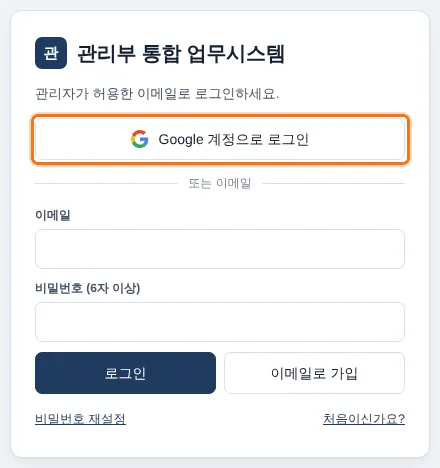
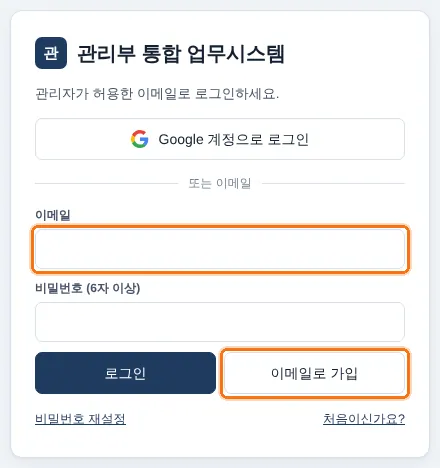
59차: 메모 📢 공지로 · 회사서식 인쇄 원본 쪽 맞춤 · 활용방법 안내 회사 메일 로그인·🆕 표시
- 메모 카드에 「📢 공지로」: 첫 줄 = 제목, 나머지 = 내용으로 업무 공지 쓰기 창(받는 사람·참조 확인 고른 뒤 확인 창),
  보낸 뒤 메모에 「📢 공지 보냄」, 바탕 화면 메모장은 업무시스템 새 창에서 이어 씀
- 회사서식(한글) 인쇄: 문단 줄 정보(LINE_SEG)로 원본 쪽 시작을 찾아 쪽 나눔, 표 칸 첫·끝 줄의 반쪽 줄 간격 제거(한글 줄 간격),
  칸 경계로 열 너비 풀기, 원본 한 줄 칸 제목은 한 줄, 한 문단의 「글자처럼 취급」 표는 나란히, 쪽 끝 빈 문단 제외,
  쪽마다 높이를 재서 넘치면 꼬리말 자리 → 그 쪽만 살짝 줄임(실제 서식 119개 원본 쪽 205개 중 129개 100%, 70개 95% 이상)
- 활용방법 안내: 로그인 = 회사 메일 가입·인증 메일·로그인(관리자만 Google), 🆕 는 처음 기록 빼고 실제 바뀐 항목만,
  메모 📢 공지로·서식 인쇄 쪽 맞춤 설명, 화면 사진 다시 찍음(바뀜 4)
- 오픈소스 확인: hwp.js(Apache-2.0)는 줄 정보를 쓰지 않아 원본 높이가 안 맞음 → 한컴 공개 HWP 5.0 규격의 줄 정보·칸 경계 직접 사용

Claude-Session: https://claude.ai/code/session_01M8rVYEY54qq8ULFBTUjQvE

Changed region(s): [[0.0591, 0.4786, 0.9455, 0.5983], [0.0591, 0.2393, 0.9455, 0.359], [0.4727, 0.7179, 0.9455, 0.8675]]

diff --git a/README.md b/README.md
@@ -12,6 +12,7 @@
 - 📢 업무 공지: 관리부 전체·직원·직무·공장에 「참조」로 알림. 꼭 알아야 할 내용은 「⚠ 참조 확인 요청」 → 받은 사람이 「✓ 참조 확인」을 누를 때마다 보낸 사람에게 확인 알림(몇 명째/전체·모두 확인), 미확인자에게 매일·「🔔 다시 알림」(Mattermost 확인 요청 방식 참고, 직접 구현 — 보안 규칙 변경 없음)
 - 🔒 위쪽 자물쇠(⚙ 왼쪽, 체크 상자): 비공개 업무를 모든 화면에서 한꺼번에 숨기기/보이기, 내 업무·팀 현황 제목 옆 「🔒 비공개 업무」 켜고 끄기(팀 현황은 나에게만), 위쪽 🔍 검색·📝 메모장 자리 바꿈
 - 화면 아래 알림 카드: 윈도우 「애니메이션 효과」를 끈 PC(움직임 줄이기)에서 빈 카드가 생기고 닫은 카드·「알림 n건 더」가 쌓이던 것 고침(Notyf 닫기 예비 타이머), 위쪽 탭·칸반 칸 제목 굵게, 진척 100% 업무는 알림·업무 요청 카드에서도 지연 표시 없음
+- 메모 카드 「📢 공지로」(첫 줄 제목·나머지 내용으로 업무 공지 쓰기, 바탕 화면 메모장은 새 창에서 이어 씀). 회사서식(한글) 인쇄: 원본 쪽 나눔(문단 줄 정보) 그대로 한 쪽 = 종이 한 장, 줄 간격·표 열 너비·한 줄 칸 제목·나란한 표를 원본에 맞춤, 조금 넘치는 쪽만 살짝 줄임. 활용방법 안내 로그인 = 회사 메일 가입·인증, 🆕 표시는 실제로 바뀐 항목만
 
 **2026.10 업데이트**
 - 사진 자동 최적화: 휴대폰 원본(3~10MB)을 긴 변 1600px WebP(약 0.25MB)로 줄여 올리고 위치정보(GPS)를 지움, 목록용 미리보기(약 20KB) 따로 저장, 작업 전·중·후 구분, 날짜·현장 표시, 카메라 바로 촬영
